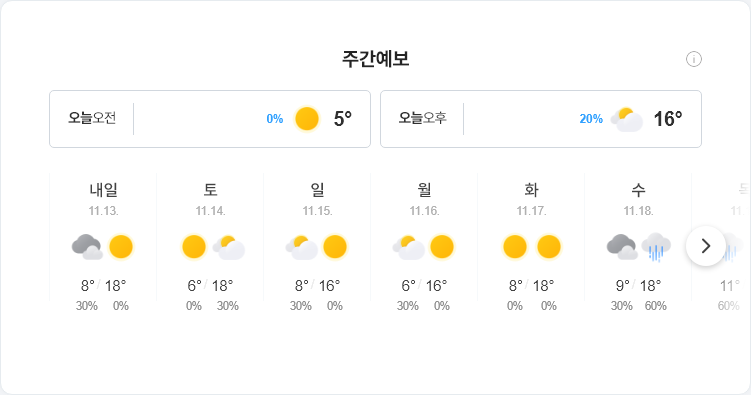
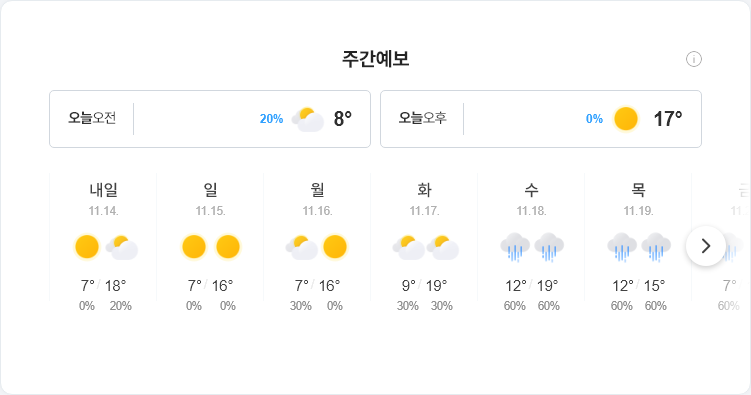
update result

diff --git a/README.md b/README.md
@@ -1,5 +1,5 @@
-##  2020-11-12 16:02:53   목요일 
-##### 날씨   -   어제보다 3 ° 높아요, 맑음
+##  2020-11-13 05:54:36   금요일 
+##### 날씨   -   어제보다 6 ° 높아요, 구름많음
 <center><img src="../img/naver_weather_week.png"></center>
 ----
 ----
@@ -13,17 +13,17 @@
 ##### 세계
 <table border="1" bordercolor="blue" align = "center" >
 <tr align = "right" > <td>Item</td><td>Point</td><td>Diff</td><td>Rate</td><td>Buy</td><td>Sell</td><td>...</td>  </tr>
-<tr align = "right" > <td>DOW</td><td>29,397.63</td><td>-23.29</td><td><font size="3" color="blue" >-0.08%</font></td><td><font size="3" color="black">0</font></td><td><font size="3" color="black">0</font></td><td>0</td>  </tr>
-<tr align = "right" > <td>NASDAQ</td><td>11,786.43</td><td>232.57</td><td><font size="3" color="red" >2.01%</font></td><td><font size="3" color="black">0</font></td><td><font size="3" color="black">0</font></td><td>0</td>  </tr>
-<tr align = "right" > <td>S&P</td><td>3,572.66</td><td>27.13</td><td><font size="3" color="red" >0.77%</font></td><td><font size="3" color="black">0</font></td><td><font size="3" color="black">0</font></td><td>0</td>  </tr>
-<tr align = "right" > <td>SHANHAI</td><td>3,338.77</td><td>-3.43</td><td><font size="3" color="blue" >-0.1%</font></td><td><font size="3" color="black">0</font></td><td><font size="3" color="black">0</font></td><td>0</td>  </tr>
-<tr align = "right" > <td>INDIA</td><td>43,303.27</td><td>-290.4</td><td><font size="3" color="blue" >-0.67%</font></td><td><font size="3" color="black">0</font></td><td><font size="3" color="black">0</font></td><td>0</td>  </tr>
+<tr align = "right" > <td>DOW</td><td>28,946.15</td><td>-451.48</td><td><font size="3" color="blue" >-1.54%</font></td><td><font size="3" color="black">0</font></td><td><font size="3" color="black">0</font></td><td>0</td>  </tr>
+<tr align = "right" > <td>NASDAQ</td><td>11,688.6</td><td>-97.83</td><td><font size="3" color="blue" >-0.83%</font></td><td><font size="3" color="black">0</font></td><td><font size="3" color="black">0</font></td><td>0</td>  </tr>
+<tr align = "right" > <td>S&P</td><td>3,526.46</td><td>-46.2</td><td><font size="3" color="blue" >-1.29%</font></td><td><font size="3" color="black">0</font></td><td><font size="3" color="black">0</font></td><td>0</td>  </tr>
+<tr align = "right" > <td>SHANHAI</td><td>3,338.68</td><td>-3.52</td><td><font size="3" color="blue" >-0.11%</font></td><td><font size="3" color="black">0</font></td><td><font size="3" color="black">0</font></td><td>0</td>  </tr>
+<tr align = "right" > <td>INDIA</td><td>43,357.19</td><td>-236.48</td><td><font size="3" color="blue" >-0.54%</font></td><td><font size="3" color="black">0</font></td><td><font size="3" color="black">0</font></td><td>0</td>  </tr>
 </table>
 ----
 ##### 시장
 <table border="1" bordercolor="blue" align = "center" >
 <tr align = "right" > <td>Item</td><td>Price</td><td>Diff</td><td>Rate</td><td>Buy</td><td>Sell</td><td>...</td>  </tr>
-<tr align = "right" > <td>USD</td><td>1,114.0</td><td>1.5</td><td><font size="3" color="red">0.13%</font></td><td><font size="3" color="black">1,110</font></td><td><font size="3" color="black">0</font></td><td>0</td>  </tr>
+<tr align = "right" > <td>USD</td><td>1,113.0</td><td>0.5</td><td><font size="3" color="red">0.04%</font></td><td><font size="3" color="black">1,110</font></td><td><font size="3" color="black">0</font></td><td>0</td>  </tr>
 <tr align = "right" > <td>WTI</td><td>41.45</td><td>0.09</td><td><font size="3" color="red">0.21%</font></td><td><font size="3" color="black">29.0</font></td><td><font size="3" color="black">0</font></td><td>0</td>  </tr>
 <tr align = "right" > <td>GOLD</td><td>1,860.0</td><td>-14.7</td><td><font size="3" color="blue">-0.78%</font></td><td><font size="3" color="black">0</font></td><td><font size="3" color="black">0</font></td><td>0</td>  </tr>
 </table>
